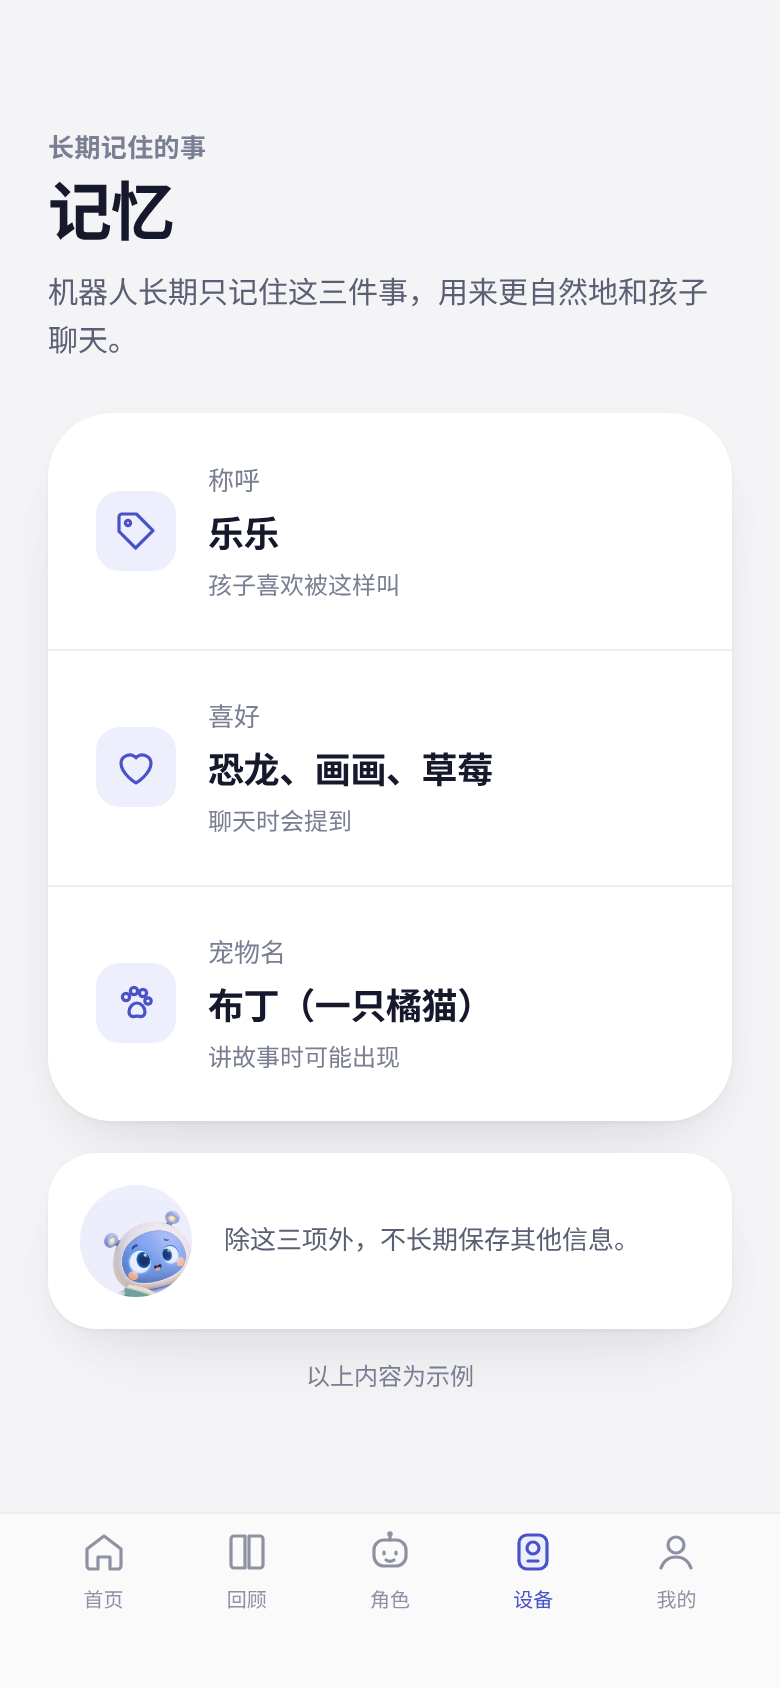
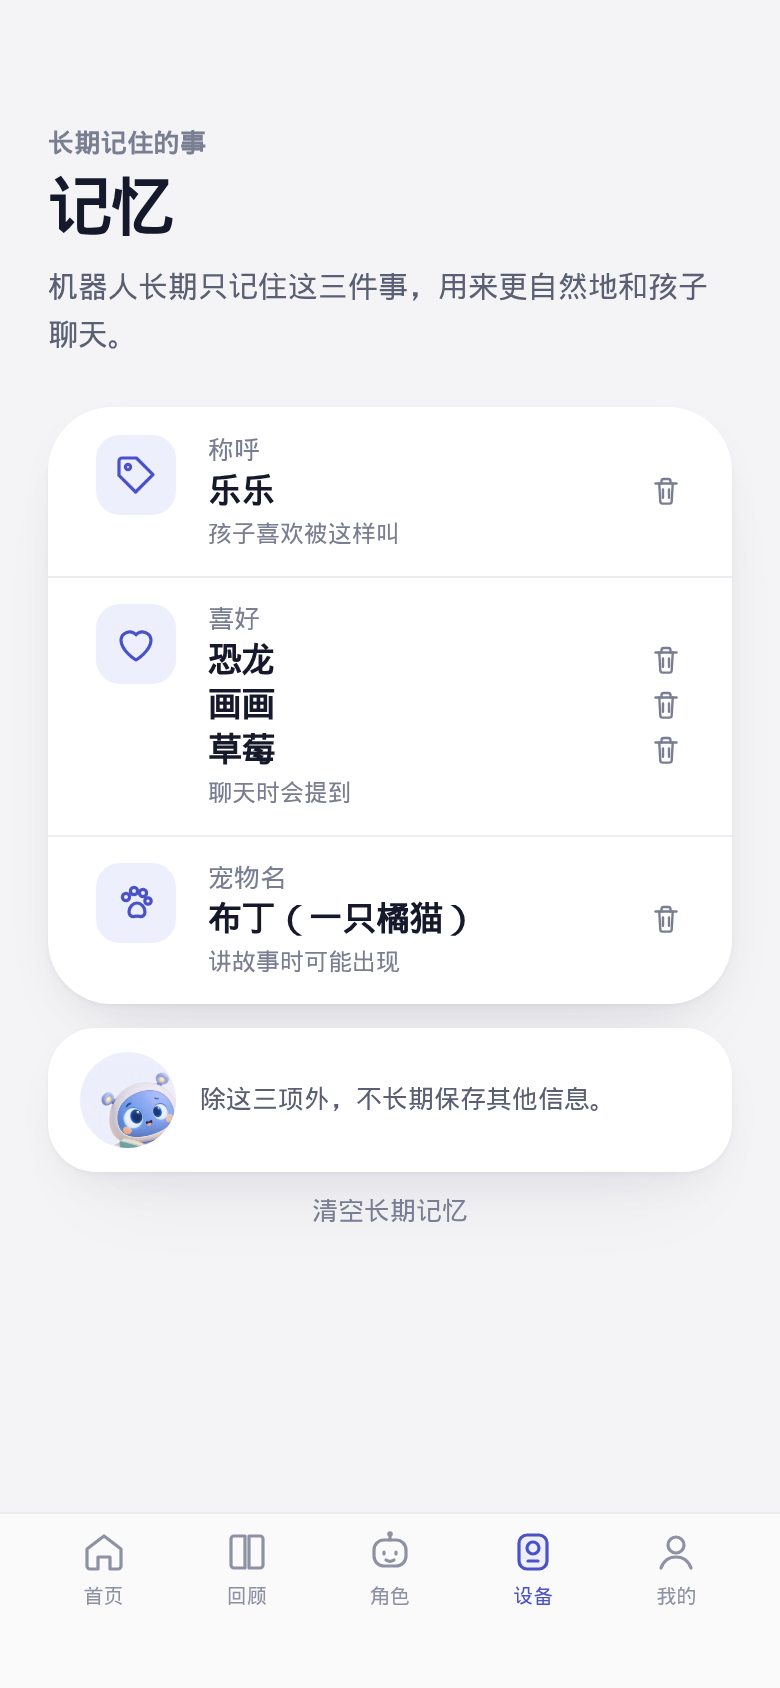
fix(miniprogram): show 15 minutes for an old session cap (#274)
* test: lock out-of-range session caps to the 15 minute display

A stored 2700, 3600, or 300 second cap still reads as a clamped minute
count. The device page should show 15, rest the slider there, and leave
the signed profile untouched.

* fix(miniprogram): show 15 minutes for an old session cap

A stored length outside 10 to 30 minutes is not a parent choice.
The device page shows 15 and leaves the signed seconds alone.
Design 09 adds a trash icon on each fact and the two confirm sheets.

* test: issue 900 seconds for an out-of-range stored cap

A stored chat length of 2700, 3600, or 300 seconds still signs that
number, so the device would keep going past the 15 minutes on screen.

* fix(policy): issue 15 minutes for an out-of-range stored cap

Stored seconds outside 600 to 1800 stay on the consent. Policy now
signs 900, and the device stops when that issued length is reached.

---------

diff --git a/docs/design/app-v4/app.html b/docs/design/app-v4/app.html
@@ -34,7 +34,9 @@ svg{fill:none;stroke:currentColor;stroke-width:1.6;stroke-linecap:round;stroke-l
 .sl em{position:absolute;top:-12px;width:32px;height:32px;border-radius:50%;background:#fff;box-shadow:0 2px 8px rgba(22,24,43,.18),0 0 0 .5px rgba(22,24,43,.08)}
 .rg{display:flex;justify-content:space-between;font-size:12px;color:var(--ink3)}
 </style><body><div id="root"></div><script>
-const P=+new URLSearchParams(location.search).get('p')||0;
+const Q=new URLSearchParams(location.search);
+const P=+Q.get('p')||0;
+const SHEET=Q.get('sheet')||'';
 const I={
 home:'<svg viewBox="0 0 24 24"><path d="M3.5 10.5 12 4l8.5 6.5V19a1.5 1.5 0 0 1-1.5 1.5h-4v-6h-6v6H5A1.5 1.5 0 0 1 3.5 19z"/></svg>',
 book:'<svg viewBox="0 0 24 24"><path d="M4 5.5A1.5 1.5 0 0 1 5.5 4H11v16H5.5A1.5 1.5 0 0 1 4 18.5z"/><path d="M20 5.5A1.5 1.5 0 0 0 18.5 4H13v16h5.5a1.5 1.5 0 0 0 1.5-1.5z"/></svg>',
@@ -58,6 +60,7 @@ info:'<svg viewBox="0 0 24 24"><circle cx="12" cy="12" r="8.5"/><path d="M12 11v
 play:'<svg viewBox="0 0 24 24" style="width:16px;height:16px;fill:currentColor;stroke:none"><path d="M8 5.5v13l10.5-6.5z"/></svg>',
 moon:'<svg viewBox="0 0 24 24"><path d="M19 14.5A7.5 7.5 0 0 1 9.5 5a7.5 7.5 0 1 0 9.5 9.5z"/></svg>',
 plus:'<svg viewBox="0 0 24 24" style="width:18px;height:18px"><path d="M12 5v14M5 12h14"/></svg>',
+trash:'<svg viewBox="0 0 24 24" style="width:18px;height:18px"><path d="M5 7h14"/><path d="M9 7V5.5A1.5 1.5 0 0 1 10.5 4h3A1.5 1.5 0 0 1 15 5.5V7"/><path d="M7.5 7l.7 12a1.5 1.5 0 0 0 1.5 1.4h4.6a1.5 1.5 0 0 0 1.5-1.4l.7-12"/><path d="M10 11v5.5M14 11v5.5"/></svg>',
 wechat:'<svg viewBox="0 0 24 24" style="width:20px;height:20px"><path d="M9.5 5C5.9 5 3 7.4 3 10.4c0 1.7.9 3.2 2.4 4.2L5 16.8l2.4-1.3c.7.2 1.4.3 2.1.3M21 14.2c0-2.6-2.5-4.7-5.6-4.7s-5.6 2.1-5.6 4.7 2.5 4.7 5.6 4.7c.6 0 1.2-.1 1.8-.3l2 1.1-.4-1.9c1.3-.9 2.2-2.2 2.2-3.6z"/></svg>'};
 
 const tab=a=>'<div class="tab">'+[['首页','home'],['回顾','book'],['角色','face'],['设备','dev'],['我的','user']].map(([t,i])=>`<div class="${t==a?'a':''}">${I[i]}${t}</div>`).join('')+'</div>';
@@ -121,11 +124,15 @@ S.push(`<div class="c"><div class="eyebrow">说话风格</div><h1>角色</h1><di
 <div class="k" style="margin-top:16px;height:48px;border-radius:16px;display:flex;justify-content:center;align-items:center;gap:8px;color:var(--acc);font-weight:600">${I.plus}新建角色</div>
 <div class="note" style="margin-top:8px">角色名称为示例</div></div>${tab('角色')}`);
 /* 9 memory */
-S.push(`<div class="c"><div class="eyebrow">长期记住的事</div><h1>记忆</h1><div class="sub">机器人长期只记住这三件事，用来更自然地和孩子聊天。</div>
+const factLine=t=>`<div style="display:flex;align-items:center;gap:8px;margin-top:2px"><div style="flex:1;font-size:17px;font-weight:700;letter-spacing:-.2px">${t}</div><span style="color:var(--ink3);display:flex">${I.trash}</span></div>`;
+const memoryFields=[['tag','称呼',['乐乐'],'孩子喜欢被这样叫'],['heart','喜好',['恐龙','画画','草莓'],'聊天时会提到'],['paw','宠物名',['布丁（一只橘猫）'],'讲故事时可能出现']];
+const memoryBody=`<div class="c"><div class="eyebrow">长期记住的事</div><h1>记忆</h1><div class="sub">机器人长期只记住这三件事，用来更自然地和孩子聊天。</div>
 <div class="k xl" style="margin-top:24px;padding:0">
-${[['tag','称呼','乐乐','孩子喜欢被这样叫'],['heart','喜好','恐龙、画画、草莓','聊天时会提到'],['paw','宠物名','布丁（一只橘猫）','讲故事时可能出现']].map(r=>`<div class="row" style="padding:24px">${ic(r[0],'var(--accbg)','var(--acc)')}<div style="flex:1"><div style="font-size:13px;color:var(--ink3)">${r[1]}</div><div style="font-size:18px;font-weight:700;letter-spacing:-.2px;margin-top:4px">${r[2]}</div><div style="font-size:12px;color:var(--ink3);margin-top:4px">${r[3]}</div></div></div>`).join('')}</div>
-<div class="k" style="margin-top:16px;padding:16px;display:flex;gap:16px;align-items:center"><div style="width:56px;height:56px;border-radius:50%;background:var(--accbg);overflow:hidden;display:grid;place-items:center;flex:none"><img class="m" src="assets/m_curious.jpg" style="width:72px;margin-top:8px"></div><div style="font-size:13px;color:var(--ink2);line-height:20px">除这三项外，不长期保存其他信息。</div></div>
-<div class="note">以上内容为示例</div></div>${tab('设备')}`);
+${memoryFields.map(r=>`<div class="row" style="align-items:flex-start;padding:14px 24px">${ic(r[0],'var(--accbg)','var(--acc)')}<div style="flex:1"><div style="font-size:13px;color:var(--ink3)">${r[1]}</div>${r[2].map(factLine).join('')}<div style="font-size:12px;color:var(--ink3);margin-top:4px">${r[3]}</div></div></div>`).join('')}</div>
+<div class="k" style="margin-top:12px;padding:12px 16px;display:flex;gap:12px;align-items:center"><div style="width:48px;height:48px;border-radius:50%;background:var(--accbg);overflow:hidden;display:grid;place-items:center;flex:none"><img class="m" src="assets/m_curious.jpg" style="width:64px;margin-top:6px"></div><div style="font-size:13px;color:var(--ink2);line-height:20px">除这三项外，不长期保存其他信息。</div></div>
+<div style="text-align:center;margin-top:12px;font-size:13px;color:var(--ink3)">清空长期记忆</div></div>${tab('设备')}`;
+const memorySheet=(title,quote,confirm)=>`<div style="position:absolute;inset:0;background:rgba(22,24,43,.4);z-index:3"></div><div style="position:absolute;left:0;right:0;bottom:0;z-index:4;background:var(--card);border-radius:24px 24px 0 0;padding:8px 24px 32px;box-shadow:0 1px 2px rgba(22,24,43,.04),0 8px 24px -8px rgba(22,24,43,.08)"><div style="width:36px;height:4px;border-radius:99px;background:var(--line);margin:4px auto 16px"></div><div style="font-size:20px;font-weight:700;letter-spacing:-.3px">${title}</div>${quote?`<div style="margin-top:16px;padding:14px 16px;border-radius:16px;background:var(--bg);font-size:15px;line-height:24px">${quote}</div>`:''}<div style="margin-top:16px;font-size:13px;color:var(--ink2);line-height:20px">删除后，这条记忆会从服务器上删除，无法恢复，不影响其他记忆。</div><div class="btn alt" style="margin-top:24px;color:var(--rust);box-shadow:none;border:1px solid var(--line)">${confirm}</div><div class="btn alt" style="margin-top:12px">再想想</div></div>`;
+S.push(memoryBody+(SHEET==='delete'?memorySheet('删除这条记忆？','恐龙','删除'):SHEET==='clear'?memorySheet('清空长期记忆？','','清空全部'):''));
 /* 10 profile */
 S.push(`<div class="c"><h1>我的</h1><div class="k xl" style="margin-top:24px;padding:24px;display:flex;gap:16px;align-items:center"><div style="width:64px;height:64px;border-radius:50%;background:var(--accbg);color:var(--acc);display:grid;place-items:center;font-size:24px;font-weight:700">乐</div><div><div style="font-size:20px;font-weight:700;letter-spacing:-.3px">乐乐妈妈</div><div class="sub" style="margin-top:4px;font-size:14px">已绑定 1 台设备</div></div></div>
 <div class="k" style="margin-top:16px;padding:16px;display:flex;align-items:center;gap:16px"><div style="width:56px;height:56px;border-radius:16px;background:var(--accbg);overflow:hidden;display:grid;place-items:center"><img class="m" src="assets/m_happy.jpg" style="width:72px;margin-top:8px"></div><div style="flex:1"><b style="font-weight:600">小乐</b><div style="margin-top:8px"><span class="chip on">在线</span></div></div><span style="color:#B4B6C4;display:flex">${I.chev}</span></div>

diff --git a/apps/miniprogram/tests/device-v4.test.js b/apps/miniprogram/tests/device-v4.test.js
@@ -101,6 +101,52 @@ test("a missing per-session cap displays 15 minutes and the slider rests on 15",
   }
 });
 
+test("a stored cap outside 10 to 30 minutes shows 15 and does not save or prompt", async () => {
+  for (const seconds of [2700, 3600, 300]) {
+    const profile = {
+      ...fx.RUNTIME_PROFILE,
+      obligations: [
+        { code: "QUIET_HOURS", params: { quiet_hours: ["21:00", "07:00"] } },
+        { code: "MAX_SESSION_SECONDS", params: { max_session_seconds: seconds, extras: [] } },
+      ],
+    };
+    const harness = loadPage("pages/device/index", fx.authed({ getRuntimeProfile: async () => profile }));
+    try {
+      const data = await harness.run();
+      assert.equal(data.sessionLimits.maxSessionMinutes, null, `${seconds}s`);
+      assert.equal(data.sessionMinuteValue, 15, `${seconds}s`);
+      const html = renderPage("pages/device/index", data);
+      const text = visibleText(html);
+      assert.match(text, /单次上限 15 分钟 10 分钟 30 分钟/);
+      assert.match(html, /class="mps-fill" style="width: 25%;"/);
+      assert.doesNotMatch(text, /单次上限 (?:5|30|45|60) 分钟/);
+      const writes = harness.wxCalls.filter((call) => {
+        const options = call.args?.[0];
+        return call.name === "request" && options?.method === "PUT" && String(options.url || "").includes("/session-limits");
+      });
+      assert.deepEqual(writes, []);
+      const prompts = harness.wxCalls.filter((call) => call.name === "showModal" || call.name === "showToast");
+      assert.deepEqual(prompts, []);
+    } finally {
+      harness.restore();
+    }
+  }
+});
+
+test("confirming a rebind sends 15 minutes, the same number an old cap displays", async () => {
+  const harness = loadPage("pages/bind/index", fx.authed());
+  try {
+    await harness.run({ claim_id: "claim_old", onboarding_session_id: "onb_old" });
+    await harness.page.chooseMode({ currentTarget: { dataset: { mode: "parent_for_child" } } });
+    harness.page.setData({ "form.childNickname": "小乐", "form.subjectAlias": "孩子" });
+    const request = harness.page._buildRequest();
+    assert.equal(request.service_preferences.max_session_minutes, 15);
+    assert.equal(harness.page.data.sessionMinuteOptions[harness.page.data.sessionMinuteIndex], 15);
+  } finally {
+    harness.restore();
+  }
+});
+
 test("a quiet-only profile keeps the signed cap empty and shows the 15 minute fallback", async () => {
   const quietOnly = {
     ...fx.RUNTIME_PROFILE,

diff --git a/apps/miniprogram/utils/session-limits.js b/apps/miniprogram/utils/session-limits.js
@@ -1,9 +1,8 @@
-const { SESSION_MINUTES_MAX } = require("./session-length");
+const { SESSION_MINUTES_MAX, SESSION_MINUTES_MIN } = require("./session-length");
 
 const QUIET_HOUR_PATTERN = /^([01]\d|2[0-3]):[0-5]\d$/;
 // 设备按北京时间执行休息时段（agent 的 MEMORIA_TIMEZONE 默认 Asia/Shanghai）。
 const DEVICE_UTC_OFFSET_MINUTES = 8 * 60;
-const MAX_SESSION_MINUTES_CAP = SESSION_MINUTES_MAX;
 const DAILY_CHAT_SECONDS_KEY = "daily_chat_seconds";
 
 function obligationParams(profile, code) {
@@ -38,6 +37,13 @@ function inQuietHours(window, now) {
   return start < end ? current >= start && current < end : current >= start || current < end;
 }
 
+function parentSessionMinutes(maxSeconds) {
+  if (!Number.isInteger(maxSeconds) || maxSeconds <= 0) return null;
+  const minutes = Math.round(maxSeconds / 60);
+  if (minutes < SESSION_MINUTES_MIN || minutes > SESSION_MINUTES_MAX) return null;
+  return minutes;
+}
+
 function sessionLimitsFromProfile(profile, now = new Date()) {
   if (!profile || profile.valid !== true || profile.subject_category !== "minor") return null;
   const quiet = obligationParams(profile, "QUIET_HOURS")?.quiet_hours;
@@ -52,11 +58,8 @@ function sessionLimitsFromProfile(profile, now = new Date()) {
   const hasMax = Number.isInteger(maxSeconds) && maxSeconds > 0;
   if (!hasQuiet && !hasMax && dailyChatMinutes === null) return null;
   const crossesMidnight = hasQuiet && minutesOf(quiet[0]) > minutesOf(quiet[1]);
-  const rawMinutes = hasMax ? Math.max(1, Math.round(maxSeconds / 60)) : null;
-  const maxSessionMinutes =
-    rawMinutes == null ? null : Math.min(MAX_SESSION_MINUTES_CAP, rawMinutes);
+  const maxSessionMinutes = parentSessionMinutes(hasMax ? maxSeconds : null);
   return {
-    // Clamped display/edit value; stored profile seconds are not rewritten.
     maxSessionMinutes,
     quietStart: hasQuiet ? quiet[0] : "",
     quietEnd: hasQuiet ? quiet[1] : "",
@@ -68,7 +71,6 @@ function sessionLimitsFromProfile(profile, now = new Date()) {
 }
 
 module.exports = {
-  MAX_SESSION_MINUTES_CAP,
   sessionLimitsFromProfile,
   inQuietHours,
 };

diff --git a/apps/miniprogram/scripts/v4-parity/scenarios.js b/apps/miniprogram/scripts/v4-parity/scenarios.js
@@ -17,6 +17,23 @@ const PARITY = [
     actions: [["summarizeSelectedDay"]],
   },
   { slug: "06-usage", design: "06-usage.png", page: "pages/device/index", harness: fx.authed() },
+  {
+    slug: "06-usage-legacy",
+    design: "06-usage.png",
+    page: "pages/device/index",
+    harness: fx.authed({
+      getRuntimeProfile: async () => ({
+        ...fx.RUNTIME_PROFILE,
+        obligations: [
+          { code: "QUIET_HOURS", params: { quiet_hours: ["21:00", "07:00"] } },
+          {
+            code: "MAX_SESSION_SECONDS",
+            params: { max_session_seconds: 2700, extras: [["daily_chat_seconds", "1800"]] },
+          },
+        ],
+      }),
+    }),
+  },
   { slug: "05-attention", design: "05-attention.png", page: "pages/attention/index", harness: fx.authed(), query: { id: "n1" } },
   { slug: "10-profile", design: "10-profile.png", page: "pages/profile/index", harness: fx.authed() },
   { slug: "08-roles", design: "08-roles.png", page: "pages/companion/index", harness: fx.authed() },
@@ -26,6 +43,22 @@ const PARITY = [
     page: "pages/child-memory/index",
     harness: fx.authed(fx.archiveApi),
     query: { minorId: "p_child", name: "乐乐" },
+  },
+  {
+    slug: "09-memory-delete",
+    design: "09-memory-delete.png",
+    page: "pages/child-memory/index",
+    harness: fx.authed(fx.archiveApi),
+    query: { minorId: "p_child", name: "乐乐" },
+    actions: [["askDeleteArchive", { currentTarget: { dataset: { recordId: "a2" } } }]],
+  },
+  {
+    slug: "09-memory-clear",
+    design: "09-memory-clear.png",
+    page: "pages/child-memory/index",
+    harness: fx.authed(fx.archiveApi),
+    query: { minorId: "p_child", name: "乐乐" },
+    actions: [["askClearArchive"]],
   },
 ];
 

diff --git a/apps/miniprogram/tests/session-limits.test.js b/apps/miniprogram/tests/session-limits.test.js
@@ -99,7 +99,30 @@ test("a same-day window has no 次日 marker", () => {
   assert.equal(limits.maxSessionLabel, "");
 });
 
-test("stored per-session limits above 30 minutes clamp to 30 on read", () => {
+test("stored seconds outside 10 to 30 minutes are not a parent choice", () => {
+  for (const seconds of [2700, 3600, 300]) {
+    const limits = sessionLimitsFromProfile(
+      profile({
+        obligations: [
+          {
+            code: "MAX_SESSION_SECONDS",
+            params: {
+              max_session_seconds: seconds,
+              retention_ttl_seconds: null,
+              quiet_hours: null,
+              extras: [],
+            },
+          },
+        ],
+      }),
+      DAY,
+    );
+    assert.equal(limits.maxSessionMinutes, null, `${seconds}s`);
+    assert.equal(limits.maxSessionLabel, "");
+  }
+});
+
+test("stored per-session limits above 30 minutes stay off the slider instead of clamping to 30", () => {
   for (const minutes of [45, 60, 90, 120]) {
     const limits = sessionLimitsFromProfile(
       profile({
@@ -117,7 +140,7 @@ test("stored per-session limits above 30 minutes clamp to 30 on read", () => {
       }),
       DAY,
     );
-    assert.equal(limits.maxSessionMinutes, 30);
-    assert.equal(limits.maxSessionLabel, "30 分钟");
+    assert.equal(limits.maxSessionMinutes, null);
+    assert.equal(limits.maxSessionLabel, "");
   }
 });

diff --git a/services/agent/tests/unit/test_minor_session_limits.py b/services/agent/tests/unit/test_minor_session_limits.py
@@ -56,7 +56,10 @@ def _obligation(code: PolicyObligation, **params: Any) -> PolicyObligationSpec:
 
 
 def _signed_payload(
-    category: str = "minor", *, daily_chat_seconds: str | None = None
+    category: str = "minor",
+    *,
+    daily_chat_seconds: str | None = None,
+    max_session_seconds: int = 1800,
 ) -> dict[str, Any]:
     now = datetime.now(UTC)
     minor = category == "minor"
@@ -84,7 +87,7 @@ def _signed_payload(
         obligations=(
             _obligation(
                 PolicyObligation.POLICY_OBLIGATION_MAX_SESSION_SECONDS,
-                max_session_seconds=1800,
+                max_session_seconds=max_session_seconds,
                 extras=daily,
             ),
             _obligation(PolicyObligation.POLICY_OBLIGATION_QUIET_HOURS, quiet_hours=("21:30", "06:30")),
@@ -101,9 +104,16 @@ def _signed_payload(
 
 
 def _profile(
-    category: str = "minor", *, daily_chat_seconds: str | None = None
+    category: str = "minor",
+    *,
+    daily_chat_seconds: str | None = None,
+    max_session_seconds: int = 1800,
 ) -> VerifiedRuntimeProfile:
-    payload = _signed_payload(category, daily_chat_seconds=daily_chat_seconds)
+    payload = _signed_payload(
+        category,
+        daily_chat_seconds=daily_chat_seconds,
+        max_session_seconds=max_session_seconds,
+    )
     verified = parse_runtime_profile(payload, verify_key=_KEY)
     assert verified is not None
     return verified
@@ -268,6 +278,44 @@ async def test_a_minor_session_past_its_limit_ends_after_the_reply(
 
     assert session.spoken == ([MINOR_SESSION_LIMIT_PHRASE] if ends else [])
     assert session.standby == (["minor_max_session"] if ends else [])
+
+
+@pytest.mark.asyncio
+@pytest.mark.parametrize("stored_seconds", [2700, 3600, 300])
+async def test_an_out_of_range_stored_cap_is_issued_as_15_minutes_and_stops_the_session(
+    stored_seconds: int,
+) -> None:
+    from services.policy.tests.fakes import FakeConsentParams
+    from services.policy.tests.test_engine import _minor_session
+
+    stored = FakeConsentParams(
+        max_session_seconds=stored_seconds, quiet_hours=("21:30", "06:30")
+    )
+    decision = _minor_session("chat", stored)
+    issued = next(
+        item.params.max_session_seconds
+        for item in decision.obligations
+        if item.code.value == "MAX_SESSION_SECONDS"
+    )
+
+    assert stored.max_session_seconds == stored_seconds
+    assert issued == 900
+    profile = _profile(max_session_seconds=issued)
+    session = _Session()
+    await session._maybe_standby_after_session_limit(
+        _context(profile, started_ago=900.0, reply="好的。"),
+        fence=object(),  # type: ignore[arg-type]
+    )
+    assert session.spoken == [MINOR_SESSION_LIMIT_PHRASE]
+    assert session.standby == ["minor_max_session"]
+
+    earlier = _Session()
+    await earlier._maybe_standby_after_session_limit(
+        _context(profile, started_ago=899.0, reply="好的。"),
+        fence=object(),  # type: ignore[arg-type]
+    )
+    assert earlier.spoken == []
+    assert earlier.standby == []
 
 
 @pytest.mark.asyncio

diff --git a/services/policy/engine.py b/services/policy/engine.py
@@ -58,9 +58,7 @@ from packages.contracts.generated.python.multi_subject_contracts import (
 )
 
 from services.common.daily_chat_limit import effective_daily_chat_budget, with_daily_chat_budget
-from services.common.session_length import (
-    DEFAULT_MAX_SESSION_SECONDS as _DEFAULT_MAX_SESSION_SECONDS,
-)
+from services.common.session_length import issued_session_seconds
 from services.policy.action_fence import capture_authority_hash
 from services.policy.context import (
     PolicyContext,
@@ -327,7 +325,7 @@ def _session_params(
     quiet_hours = getattr(params, "quiet_hours", None)
     if code == "MAX_SESSION_SECONDS":
         return _params(
-            max_session_seconds=int(max_seconds or _DEFAULT_MAX_SESSION_SECONDS),
+            max_session_seconds=issued_session_seconds(max_seconds),
             extras=with_daily_chat_budget(
                 (), effective_daily_chat_budget(getattr(params, "extras", ()))
             ),

diff --git a/services/common/session_length.py b/services/common/session_length.py
@@ -18,3 +18,15 @@ def session_seconds_from_minutes(minutes: object) -> int | None:
     if minutes < SESSION_MINUTES_MIN or minutes > SESSION_MINUTES_MAX:
         return None
     return minutes * 60
+
+
+def issued_session_seconds(stored: object) -> int:
+    """Seconds the device enforces. Outside 10 to 30 minutes, issue 15."""
+
+    if (
+        isinstance(stored, int)
+        and not isinstance(stored, bool)
+        and SESSION_MINUTES_MIN * 60 <= stored <= SESSION_MINUTES_MAX * 60
+    ):
+        return stored
+    return DEFAULT_MAX_SESSION_SECONDS
